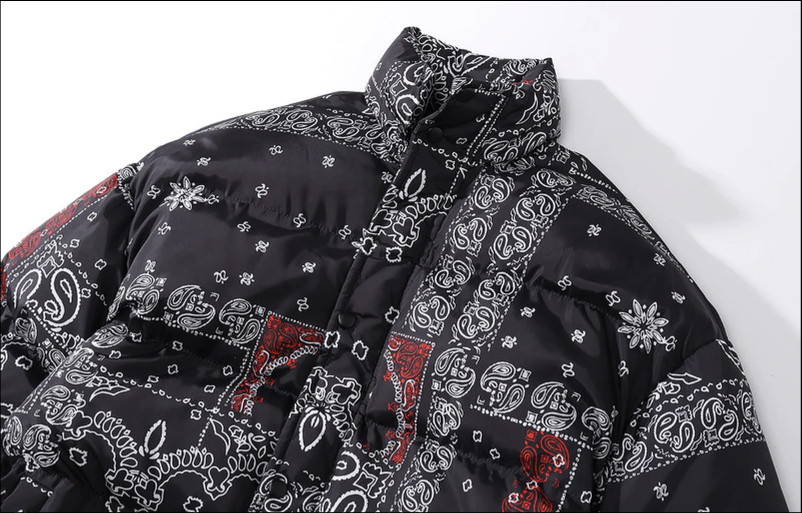
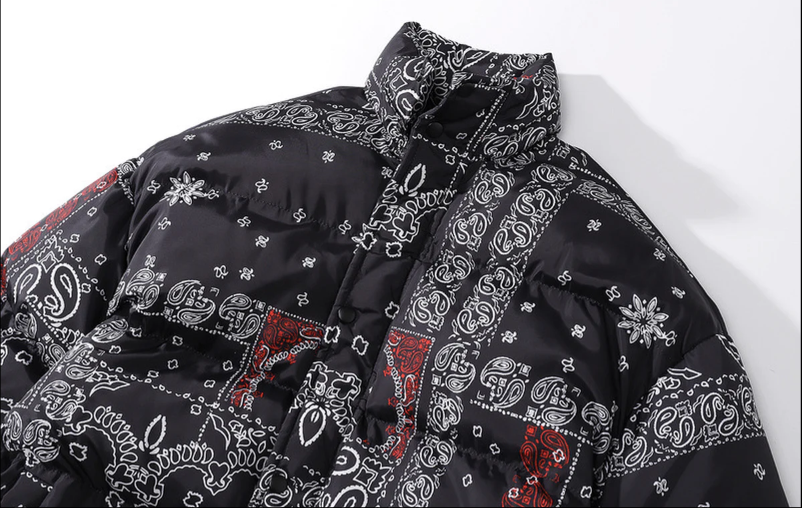
Featured Products List + transition

diff --git a/src/components/Article.jsx b/src/components/Article.jsx
@@ -4,24 +4,33 @@ import './Article.css';
 
 // import Paper from '@mui/material/Paper';
 
-function Articale(probs) {
+function Article(props) {
   const [isHovered, setIsHovered] = useState(false);
 
   return (
     <div
-      className='articale'
+      className='article'
       onMouseEnter={() => setIsHovered(true)}
       onMouseLeave={() => setIsHovered(false)}
     >
-      <img
-        className='articale__image'
-        src={isHovered ? probs.hoverImage : probs.image}
-        alt={probs.title}
-      />
-      <h3 className='articale__title'>{probs.title}</h3>
-      <p className='articale__price'>{probs.price}</p>
+
+<img
+    data-visible={isHovered}
+    className="article__image absolute"
+    src={props.hoverImage}
+    alt={props.title}
+  />
+  <img
+    data-visible={!isHovered}
+    className="article__image"
+    src={props.image}
+    alt={props.title}
+  />
+
+      <h3 className='article__title'>{props.title}</h3>
+      <p className='article__price'>{props.price}</p>
     </div>
   );
 }
 
-export default Articale;
+export default Article;

diff --git a/src/articles.js b/src/articles.js
@@ -3,7 +3,7 @@ const articles = [
     title: 'Article 1',
     price: "$10",
     image: "/images/products/C1_face.png",
-    hoverImage: "/images/products/C1_close.png"
+    hoverImage: "/images/products/C1_back.png"
   },
   {
     title: 'Article 2',
@@ -62,8 +62,8 @@ const articles = [
   {
     title: 'Article 3',
     price: "$30",
-    image: "/images/products/J_face (1).png",
-    hoverImage: "/images/products/J_close (1).png"
+    image: "/images/products/J_face (9).png",
+    hoverImage: "/images/products/J_close (9).png"
   },
   {
     title: 'Article 3',
@@ -80,7 +80,7 @@ const articles = [
   {
     title: 'Article 3',
     price: "$30",
-    image: "/images/products/J_face (13).png",
+    image: "/images/products/J_face (3).png",
     hoverImage: "/images/products/J_close (3).png"
   },
   {

diff --git a/src/components/FullGrid.jsx b/src/components/FullGrid.jsx
@@ -6,14 +6,24 @@ import articles from '../articles';
 
 import Article from './Article';
 
-export default function FullBorderedGrid() {
+export default function FullBorderedGrid(props) {
+
+  
+  const currentPage = props.page;
+  const itemsPerPage = 12;
+  const indexOfLastItem = currentPage * itemsPerPage;
+  const indexOfFirstItem = indexOfLastItem - itemsPerPage;
+  const currentItems = articles.slice(indexOfFirstItem, indexOfLastItem);
+
+
+
   return (
     <Box sx={{ flexGrow: 1, p: 2 }}>
       <Grid
         container
         spacing={2}
       >
-        {articles.map((article, index) => (
+        {currentItems.map((article, index) => (
           <Grid key={index} {...{ xs: 12, sm: 6, md: 4, lg: 3 }} minHeight={160} >
             <Article 
               title={article.title} 

diff --git a/src/components/Products.jsx b/src/components/Products.jsx
@@ -3,6 +3,7 @@ import * as React from 'react';
 import Pagination from '@mui/material/Pagination';
 
 import './Products.css';
+import articles from '../articles';
 
 
 export default function Products() {
@@ -13,10 +14,14 @@ export default function Products() {
     setPage(value);
   };
 
+  const numberPages = Math.ceil(articles.length / 12);
+
+
   return (
     <div className='Products'>
-      <FullGrid />
-      <Pagination count={10} page={page} onChange={handleChange} />
+      <h2 className='Products__title'>Featured Products</h2>
+      <FullGrid page={page}/>
+      <Pagination count={numberPages} page={page} onChange={handleChange} />
     </div>
   );
 }

diff --git a/src/components/Article.css b/src/components/Article.css
@@ -1,6 +1,26 @@
-.articale__image {
+.article{
   width: 100%;
-  height: auto;
-  max-height: 150px;
+  height: 100%;
+  display: flex;
+  flex-direction: column;
+  align-items: center;
+  position: relative;
 }
- 
+
+
+.article__image {
+  width: 100%;
+  height: 100%;
+  max-height: 250px;
+  object-fit:cover;
+  transition: opacity 0.5s ease-in-out;
+}
+
+
+.article__image[data-visible="false"] {
+  opacity: 0;
+}
+.absolute {
+  position: absolute;
+}
+

diff --git a/src/components/Products.css b/src/components/Products.css
@@ -1,4 +1,15 @@
 .Products{
-    width: 100%;
+    width: auto;
     height: 100%;
+    margin: 30px;
+    display: flex;
+    flex-direction: column;
+    align-items: center;
 }
+
+.Products__title{
+    font-size: 30px;
+    font-weight: 700;
+    margin-bottom: 30px;
+}
+

diff --git a/src/components/Categories.css b/src/components/Categories.css
@@ -10,6 +10,7 @@
   grid-column-gap: 5px;
   grid-row-gap: 5px;
   height: 1200px;
+  margin-bottom: 50px;
 }
   
 .collenction { grid-area: 1 / 1 / 9 / 3; }
